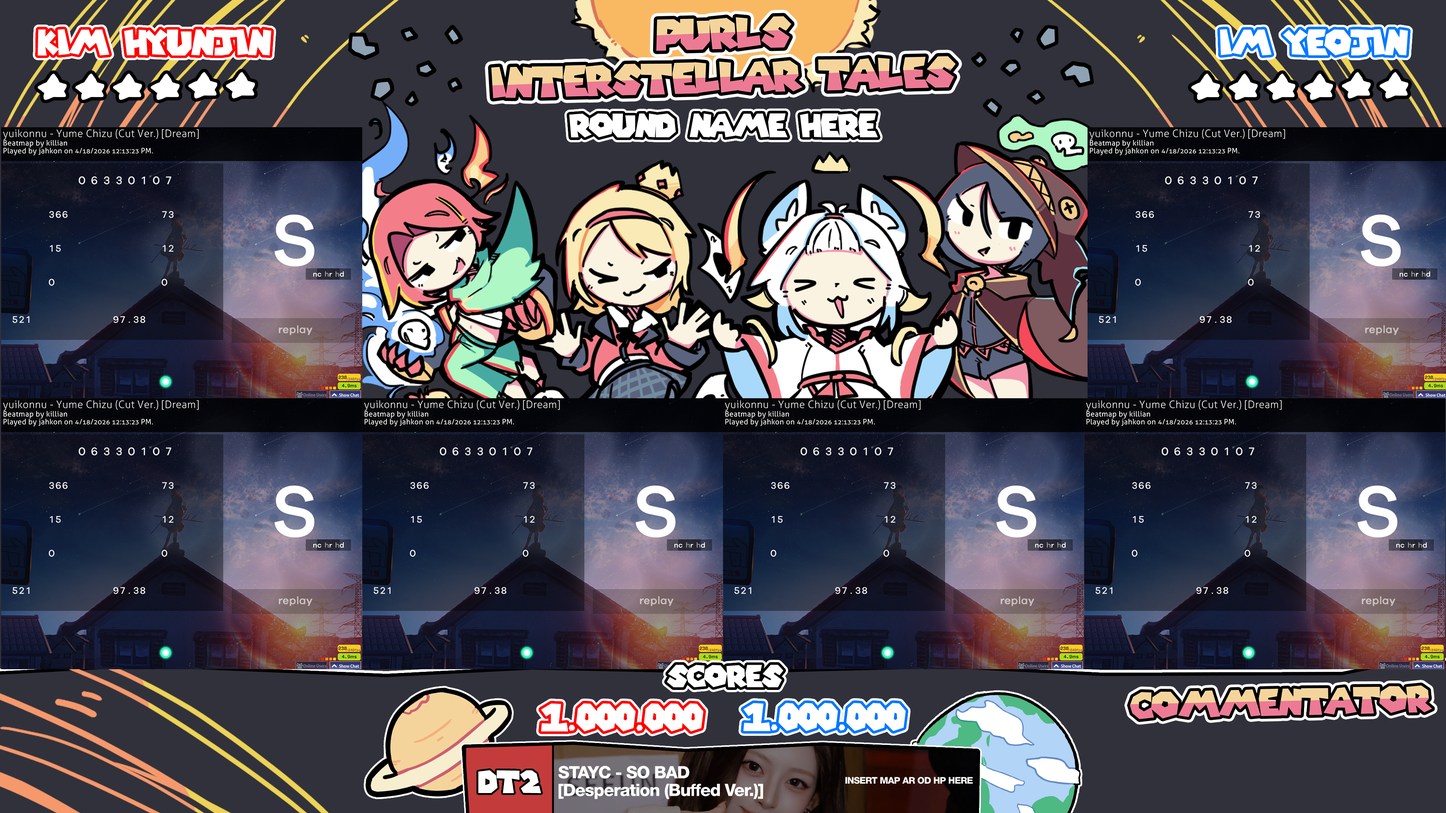
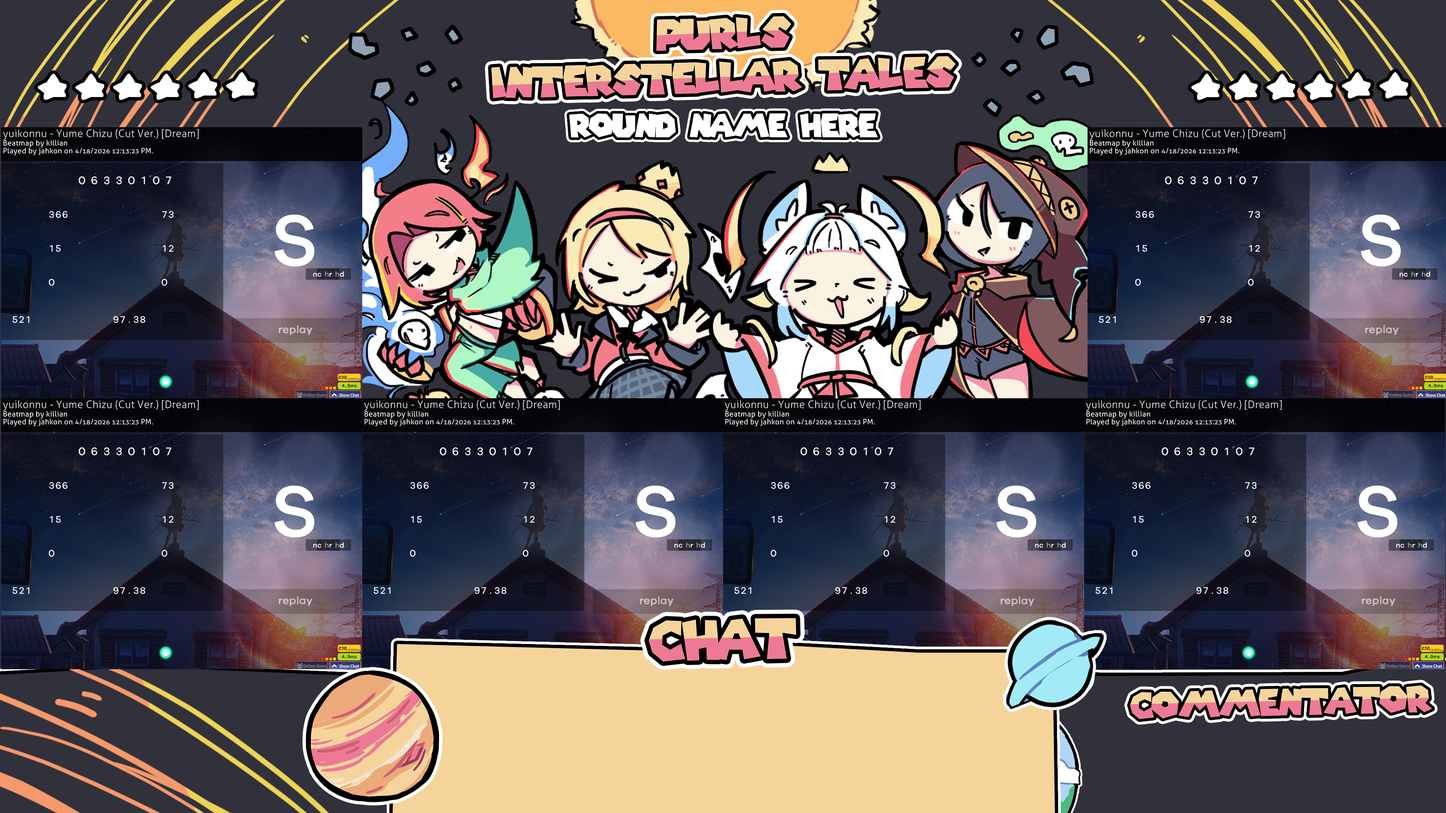
feat: remove name from background picture

Changed region(s): [[0.1875, 0.7444, 0.7812, 1.0], [0.0, 0.031, 0.1875, 0.0931], [0.8125, 0.031, 1.0, 0.0931]]

diff --git a/main/index.html b/main/index.html
@@ -32,7 +32,7 @@
                 fill="white"
                 class="team-name-left"
             >
-                AAAAAAAAAAAAAAAAAA
+                KIM HYUJIN
             </text>
 
             <!-- Red outer stroke -->
@@ -49,7 +49,7 @@
                 fill="white"
                 class="team-name-left"
             >
-                AAAAAAAAAAAAAAAAAA
+                KIM HYUJIN
             </text>
         </svg>
 
@@ -75,7 +75,7 @@
                 fill="white"
                 class="team-name-right"
             >
-                AAAAAAAAAAAAAAAAAA
+                KIM HYUJIN
             </text>
 
             <!-- Red outer stroke -->
@@ -92,7 +92,7 @@
                 fill="white"
                 class="team-name-right"
             >
-                AAAAAAAAAAAAAAAAAA
+                KIM HYUJIN
             </text>
         </svg>
     </div>
